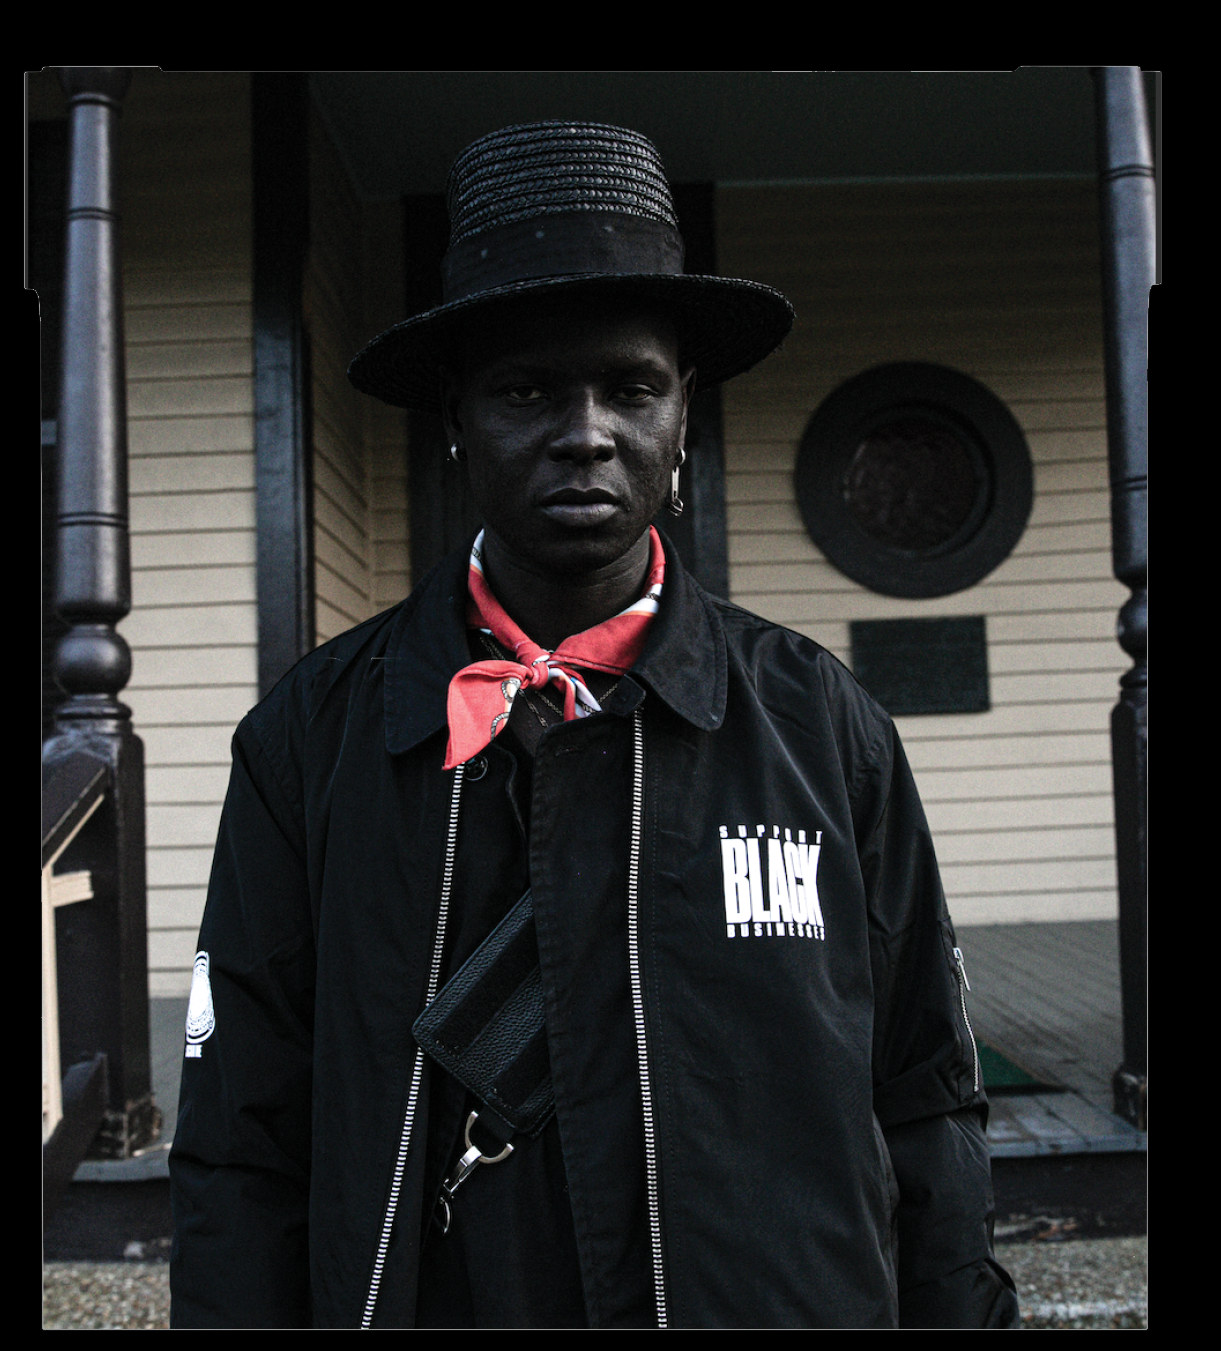
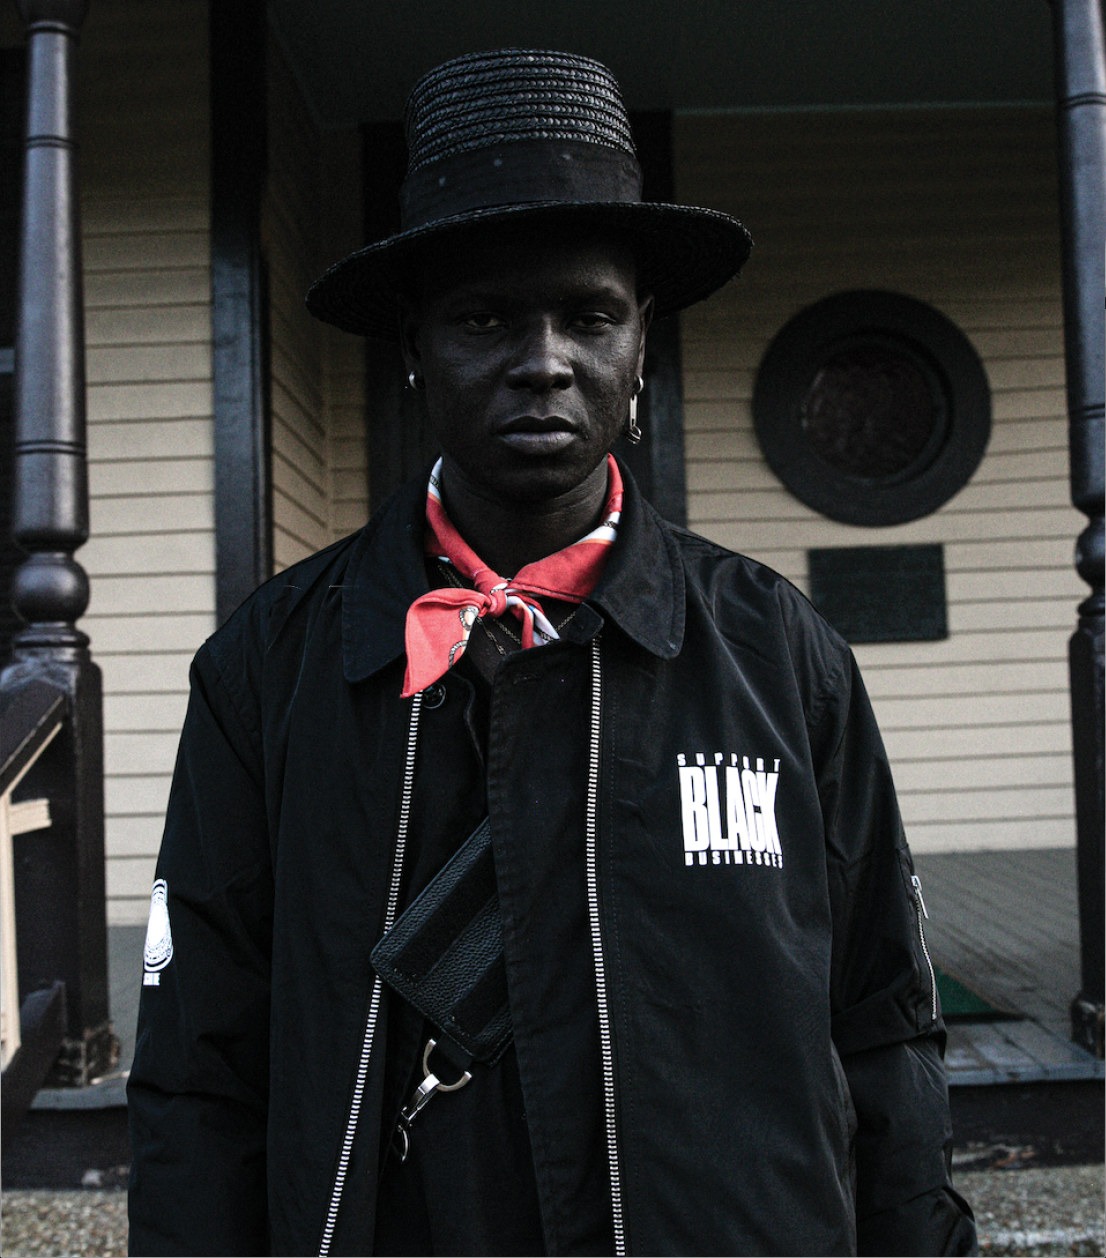
Gallery: TikTok images cropped to the photo (transparent frame edges removed)
Claude-Session: https://claude.ai/code/session_01KVLRsnvPiktYNNjcBPULXv

diff --git a/bust-test/gallery/gallery.js b/bust-test/gallery/gallery.js
@@ -27,8 +27,8 @@ window.DM_GALLERY = [
   {"id": "g022", "w": 1333, "h": 2000, "t": "La Cleanic Jewelry Capsule :: Tower Ring"},
   {"id": "g023", "w": 2000, "h": 2000, "t": "Marclo :: Haze Single Design (2026)"},
   {"id": "g024", "w": 1687, "h": 1212, "t": "Moise :: We Survived the Storm :: Vinyl Design (2021)"},
-  {"id": "g025", "w": 1221, "h": 1351, "t": "TikTok :: Support Black Businesses"},
-  {"id": "g026", "w": 1155, "h": 1300, "t": "TikTok Campaign at MLK's House"},
+  {"id": "g025", "w": 1106, "h": 1258, "t": "TikTok :: Support Black Businesses"},
+  {"id": "g026", "w": 1106, "h": 1258, "t": "TikTok Campaign at MLK's House"},
   {"id": "g027", "w": 576, "h": 720, "t": "David Maxwell :: Working on Myself (2020)", "video": true},
   {"id": "g028", "w": 720, "h": 1280, "t": "David Maxwell :: Silence (2021)", "video": true},
   {"id": "g029", "w": 1080, "h": 1920, "t": "David Maxwell :: The Function Game Scene", "video": true},
